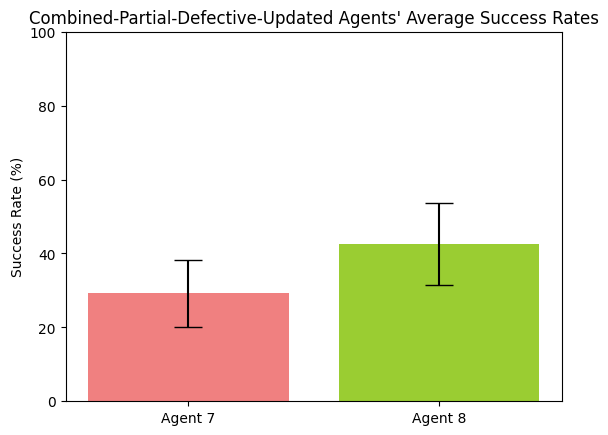
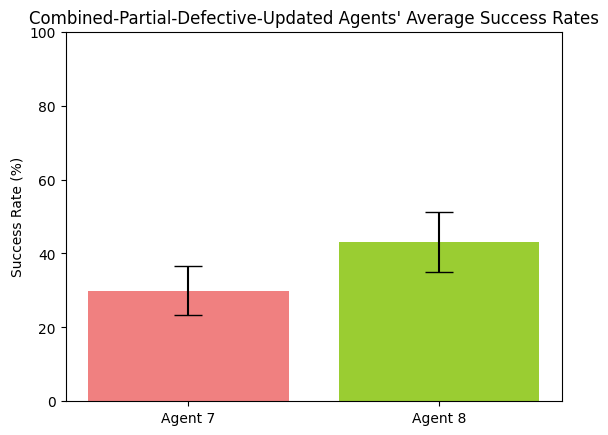
survey node is defective or not for both

diff --git a/game/agents/agent7b.py b/game/agents/agent7b.py
@@ -31,16 +31,22 @@ class Agent7B(Agent7):
             highest_prob_prey_nodes = self.get_highest_prob_prey_nodes()
             node = random.choice(highest_prob_prey_nodes)
 
+        defective = False if random.uniform(0, 1) <= 0.9 else True
         if predator.location == node:
-            pred_signal = True if random.uniform(0, 1) <= 0.9 else False
-            if pred_signal:
-                self.prev_preds.append(node)
+            pred_signal = True
         if prey.location == node:
-            prey_signal = True if random.uniform(0, 1) <= 0.9 else False
+            prey_signal = True
+
+        if not defective:
             if prey_signal:
                 self.prev_preys.append(node)
-
-        return prey_signal, pred_signal, node
+            if pred_signal:
+                self.prev_preds.append(node)
+            return prey_signal, pred_signal, node
+        else:
+            prey_signal = False
+            pred_signal = False
+            return prey_signal, pred_signal, node
 
     def prey_belief_update_3(self, graph, surveyed_node):
         """

diff --git a/game/agents/agent8b.py b/game/agents/agent8b.py
@@ -31,16 +31,22 @@ class Agent8B(Agent8):
             highest_prob_prey_nodes = self.get_highest_prob_prey_nodes()
             node = random.choice(highest_prob_prey_nodes)
 
+        defective = False if random.uniform(0, 1) <= 0.9 else True
         if predator.location == node:
-            pred_signal = True if random.uniform(0, 1) <= 0.9 else False
-            if pred_signal:
-                self.prev_preds.append(node)
+            pred_signal = True
         if prey.location == node:
-            prey_signal = True if random.uniform(0, 1) <= 0.9 else False
+            prey_signal = True
+
+        if not defective:
             if prey_signal:
                 self.prev_preys.append(node)
-
-        return prey_signal, pred_signal, node
+            if pred_signal:
+                self.prev_preds.append(node)
+            return prey_signal, pred_signal, node
+        else:
+            prey_signal = False
+            pred_signal = False
+            return prey_signal, pred_signal, node
 
     def prey_belief_update_3(self, graph, surveyed_node):
         """
